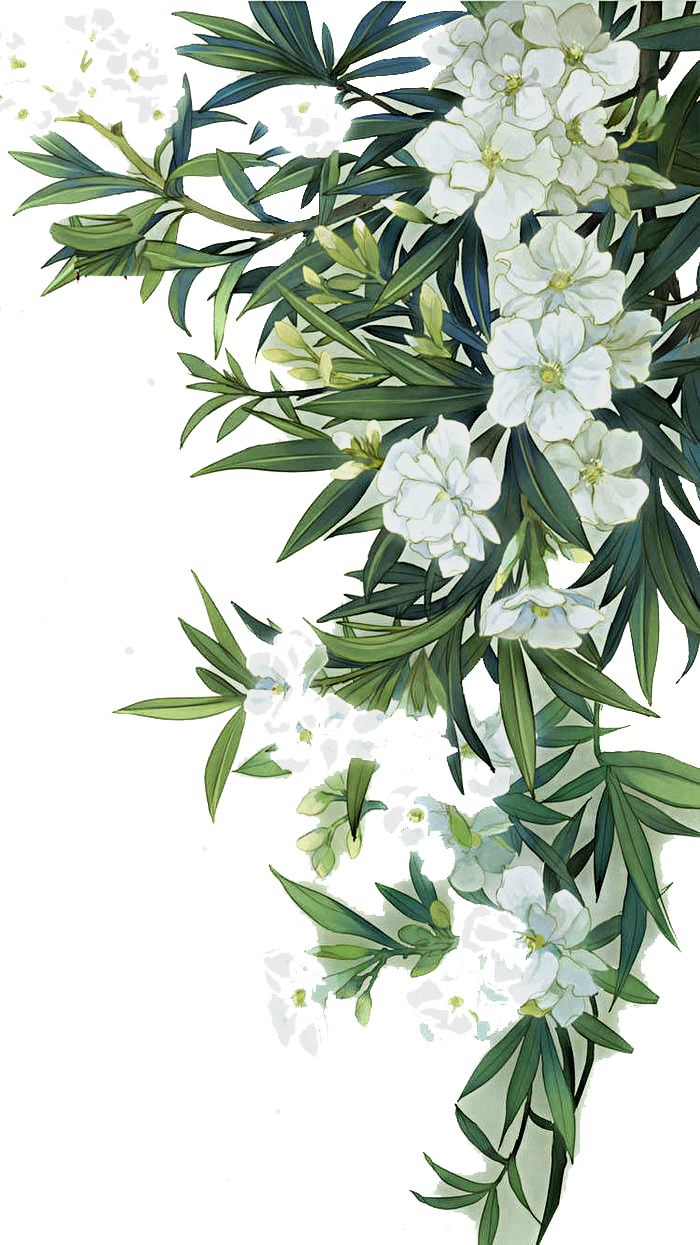
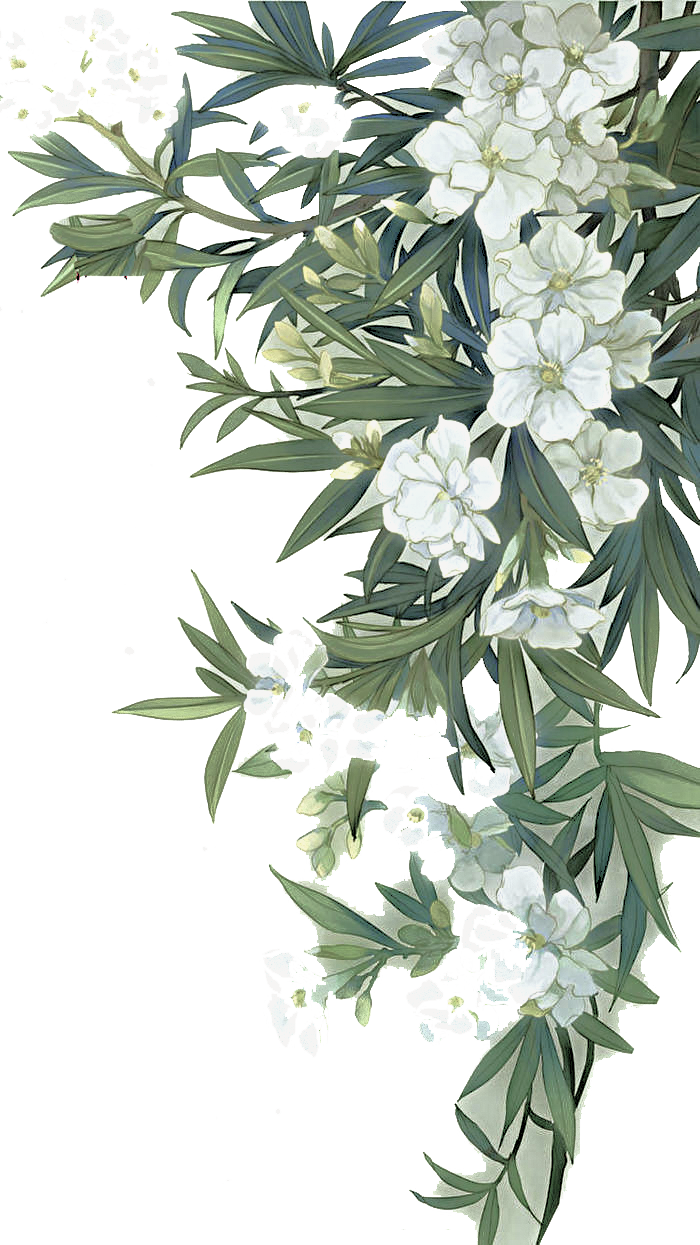
Chinh sua vi tri hoa va scroll muot tren mobile

diff --git a/app/page.tsx b/app/page.tsx
@@ -39,7 +39,6 @@ const DRESS_SPARKLES = [
   { id: 5, bottom: "5%", left: "50%", delay: "1.5s", size: "16px" },
 ];
 
-// Pháo hoa bung đều theo hình tròn (bắn ra 1 lần duy nhất cực mượt)
 const GENTLE_CONFETTI = Array.from({ length: 40 }).map((_, i) => {
   const shapes = ['heart', 'star', 'bubble'];
   const colors = ['#FFC0CB', '#FFB6C1', '#FFD1DC', '#FFE4E1', '#FFF0F5', '#FFFFFF'];
@@ -121,15 +120,13 @@ export default function WeddingCardPage() {
     return () => clearTimeout(timer);
   }, []);
 
-  // THUẬT TOÁN TỰ CUỘN KHÔNG GIẬT TRÊN MOBILE (1 Pixel / Frame)
   useEffect(() => {
     let rafId: number;
     
     const smoothScroll = () => {
         if (isAutoScrolling && scrollRef.current) {
-            scrollRef.current.scrollTop += 1; // Tăng chuẩn 1px mỗi khung hình, loại bỏ giật lag
+            scrollRef.current.scrollTop += 1; 
             
-            // Tự dừng khi tới đáy
             if (scrollRef.current.scrollTop + scrollRef.current.clientHeight >= scrollRef.current.scrollHeight - 2) {
                 setIsAutoScrolling(false);
             } else {
@@ -160,7 +157,6 @@ export default function WeddingCardPage() {
       setCardState('opening'); 
     }, 2200);
 
-    // Mở ra phát chạy luôn cho nhanh
     setTimeout(() => {
       setCardState('done');
       setIsAutoScrolling(true);
@@ -193,7 +189,6 @@ export default function WeddingCardPage() {
         }
         .animate-fast-beat { animation: fast-beat 1.5s ease-in-out forwards; }
 
-        /* BONG BÓNG MƯỢT: Bay nổ ra và giữ nguyên kích thước, chỉ tan biến Opacity */
         @keyframes gentle-burst {
            0% { opacity: 1; transform: translate(0, 0) scale(0) rotate(0deg); }
            80% { opacity: 0.9; transform: translate(calc(var(--tx) * 0.8), calc(var(--ty) * 0.8)) scale(var(--s)) rotate(15deg); }
@@ -240,7 +235,6 @@ export default function WeddingCardPage() {
          </div>
       </div>
 
-      {/* CHẠM ĐỂ DỪNG/CUỘN THÔNG BÁO */}
       <div 
         className={`fixed bottom-8 left-1/2 -translate-x-1/2 z-[60] bg-black/40 text-white px-5 py-2.5 rounded-full backdrop-blur-sm text-[10px] md:text-[11px] uppercase tracking-widest transition-opacity duration-1000 pointer-events-none flex items-center gap-2 shadow-lg ${isAutoScrolling ? 'opacity-100' : 'opacity-0'}`}
       >
@@ -337,7 +331,6 @@ export default function WeddingCardPage() {
               )}
 
               {/* === RUỘT THIỆP (Z-10) === */}
-              {/* Thêm onClick vào đây để người dùng chạm vào thiệp là cuộn/dừng */}
               <div 
                   ref={scrollRef}
                   className={`absolute inset-0 w-full h-full bg-[#FDFBF7] relative z-10 overflow-y-auto overflow-x-hidden custom-scrollbar pb-32
@@ -364,27 +357,22 @@ export default function WeddingCardPage() {
                         </div>
                         <img src="/Con_dau1.png" alt="Wax Seal" className="absolute -bottom-8 -right-6 w-20 h-20 z-30 drop-shadow-md object-contain" onError={(e) => { if (!e.currentTarget.src.includes('.jpg')) e.currentTarget.src = "/Con_dau1.jpg"; }} />
                         
-                        {/* HOA ĐẦU TIÊN: Sửa thành float-up-down thay vì lắc qua lắc lại */}
-                        <div className="absolute -bottom-10 -left-12 w-40 z-20 pointer-events-none drop-shadow-lg" style={{ animation: 'float-up-down 5s ease-in-out infinite' }}>
-                            <img src="/HoaT1.png" alt="Hoa" className="w-full h-auto origin-bottom-left" onError={(e) => { if (!e.currentTarget.src.includes('.jpg')) e.currentTarget.src = "/HoaT1.jpg"; }} />
-                        </div>
+                        {/* ĐÃ XÓA ẢNH HOA T1 TẠI ĐÂY */}
                      </div>
 
                      <div className="relative w-[90%] max-w-[400px] art-paper-bg rounded-sm shadow-[0_15px_40px_rgba(0,0,0,0.08)] mt-6 mb-8 border border-[#EAE3DB]">
                          
-                         {/* THAY ĐỔI: Goc1 (Góc trên phải) Tràn lề trên và né mép phải ra */}
                          <div className="absolute top-[-50px] -right-[25px] z-30 pointer-events-none origin-top-right" style={{ animation: 'sway-slow 6s ease-in-out infinite' }}>
                              <img src="/goc1.png" alt="Hoa goc" className="w-[140px] h-auto opacity-95" style={{ filter: 'drop-shadow(-4px 8px 6px rgba(0,0,0,0.25))' }} onError={(e) => { if (!e.currentTarget.src.includes('.jpg')) e.currentTarget.src = "/goc1.jpg"; }} />
                          </div>
 
-                         {/* THAY ĐỔI: Hoa3 (Giữa trái) Nghiêng cụp vào trong (rotate), nhưng thân rễ vẫn ngoài lề */}
                          <div className="absolute top-[40%] -left-[50px] -translate-y-1/2 z-30 pointer-events-none origin-bottom-left rotate-[20deg]" style={{ animation: 'float-up-down 6s ease-in-out infinite' }}>
                              <img src="/hoa3.png" alt="Hoa" className="w-[200px] h-auto opacity-95" style={{ filter: 'drop-shadow(6px 15px 12px rgba(0,0,0,0.35))' }} onError={(e) => { if (!e.currentTarget.src.includes('.jpg')) e.currentTarget.src = "/hoa3.jpg"; }} />
                          </div>
                          
-                         {/* THAY ĐỔI: HoaT1 (Góc dưới phải) Đẩy lùi lên trên một chút để không tuột đáy */}
-                         <div className="absolute -bottom-[70px] -right-[40px] z-30 pointer-events-none" style={{ animation: 'float-up-down-small 7s ease-in-out infinite reverse' }}>
-                            <img src="/HoaT1.png" alt="Hoa" className="w-[150px] h-auto" style={{ transform: 'scaleX(-1) rotate(15deg)', filter: 'drop-shadow(-4px 10px 8px rgba(0,0,0,0.3))' }} onError={(e) => { if (!e.currentTarget.src.includes('.jpg')) e.currentTarget.src = "/HoaT1.jpg"; }} />
+                         {/* THAY ĐỔI: Chuyển chiếc lá (HoaT1) sang BÊN TRÁI, bóng đổ (shadow) cũng đã được lật ngược cho chân thật */}
+                         <div className="absolute -bottom-[70px] -left-[40px] z-30 pointer-events-none" style={{ animation: 'float-up-down-small 7s ease-in-out infinite' }}>
+                            <img src="/HoaT1.png" alt="Hoa" className="w-[150px] h-auto" style={{ filter: 'drop-shadow(4px 10px 8px rgba(0,0,0,0.3))' }} onError={(e) => { if (!e.currentTarget.src.includes('.jpg')) e.currentTarget.src = "/HoaT1.jpg"; }} />
                          </div>
 
                          <div className="px-6 pt-12 pb-16 flex flex-col items-center text-center relative z-20 w-full">
